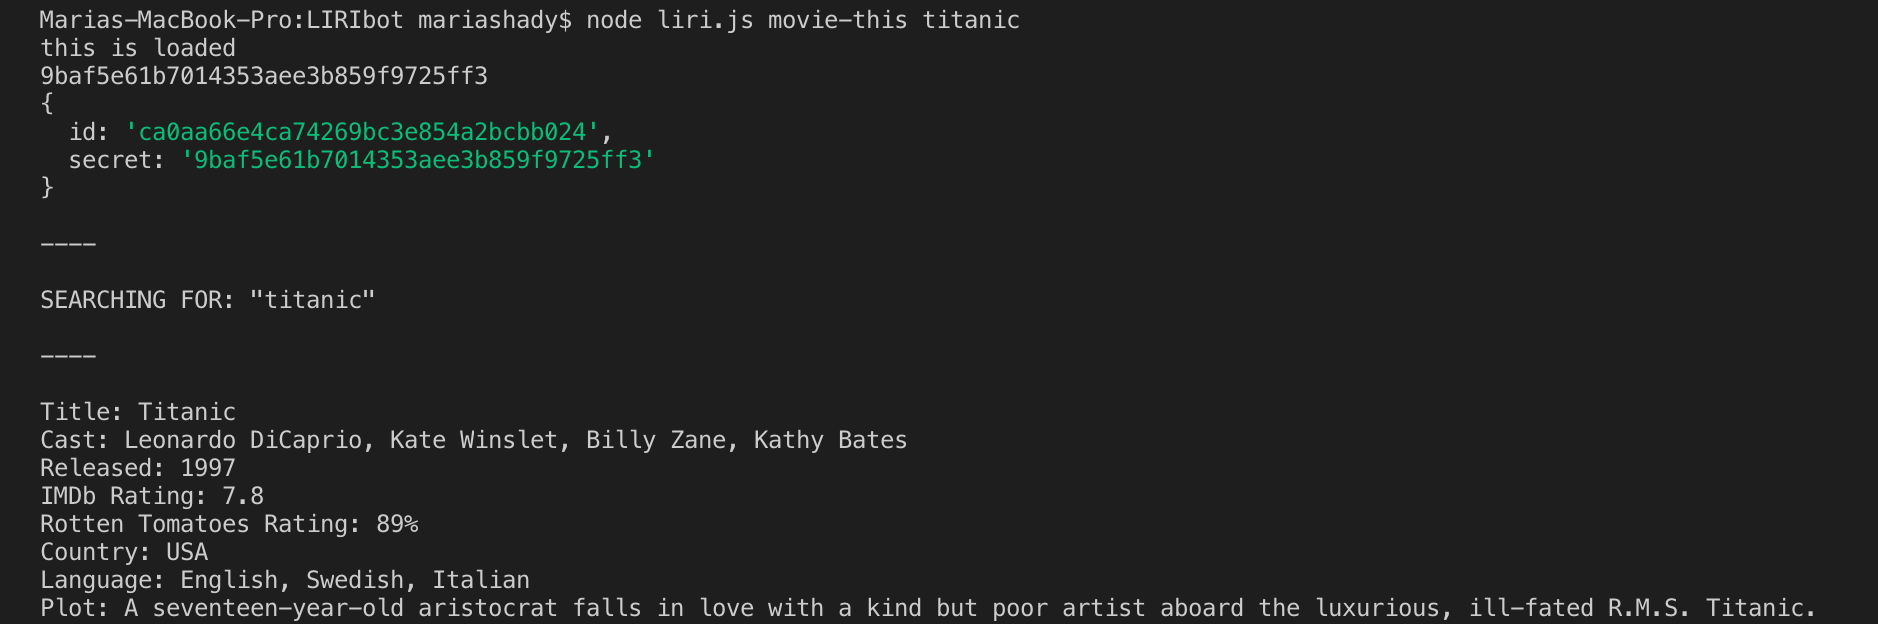
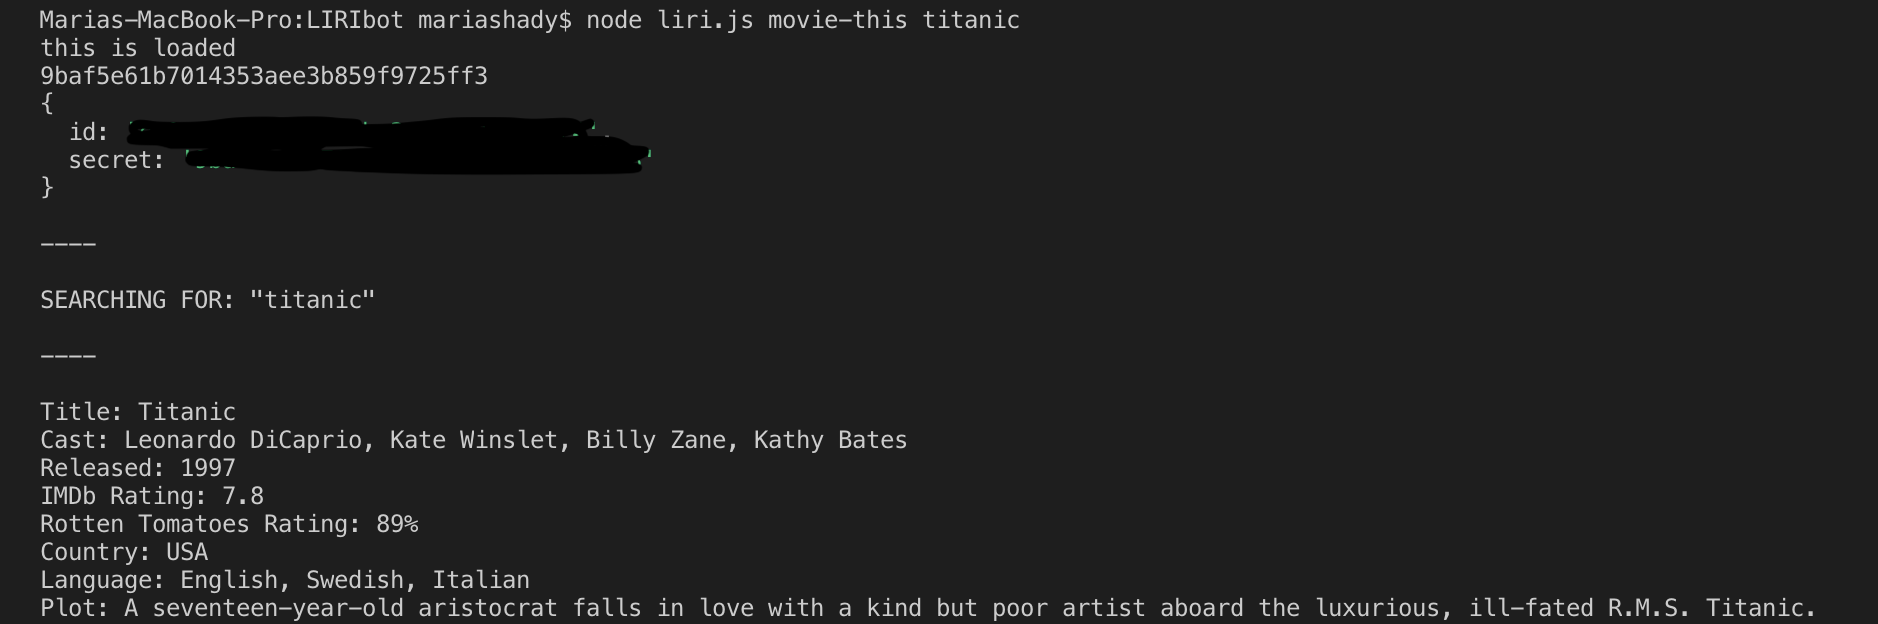
hid id and secret in images

Changed region(s): [[0.0618, 0.1827, 0.3397, 0.3045]]

diff --git a/liri.js b/liri.js
@@ -4,7 +4,7 @@ const keys = require("./keys.js");
 
 let request = require("request");
 
-// const moment = require("moment"); HAD ISSUES INSTALLING MOMENT NPM
+// const moment = require("moment"); 
 
 const fs = require("fs");
 
